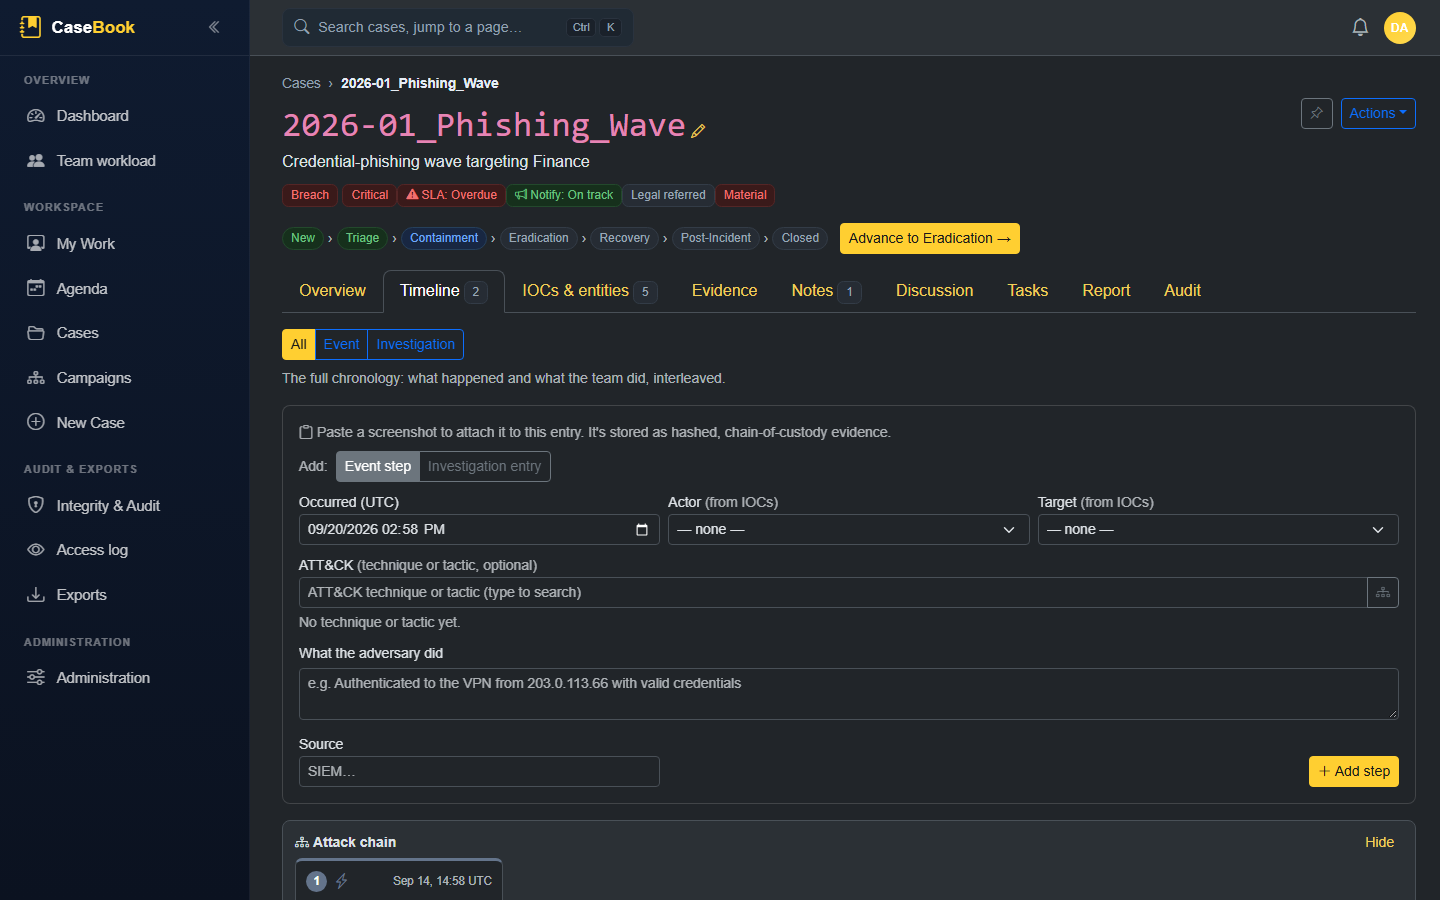
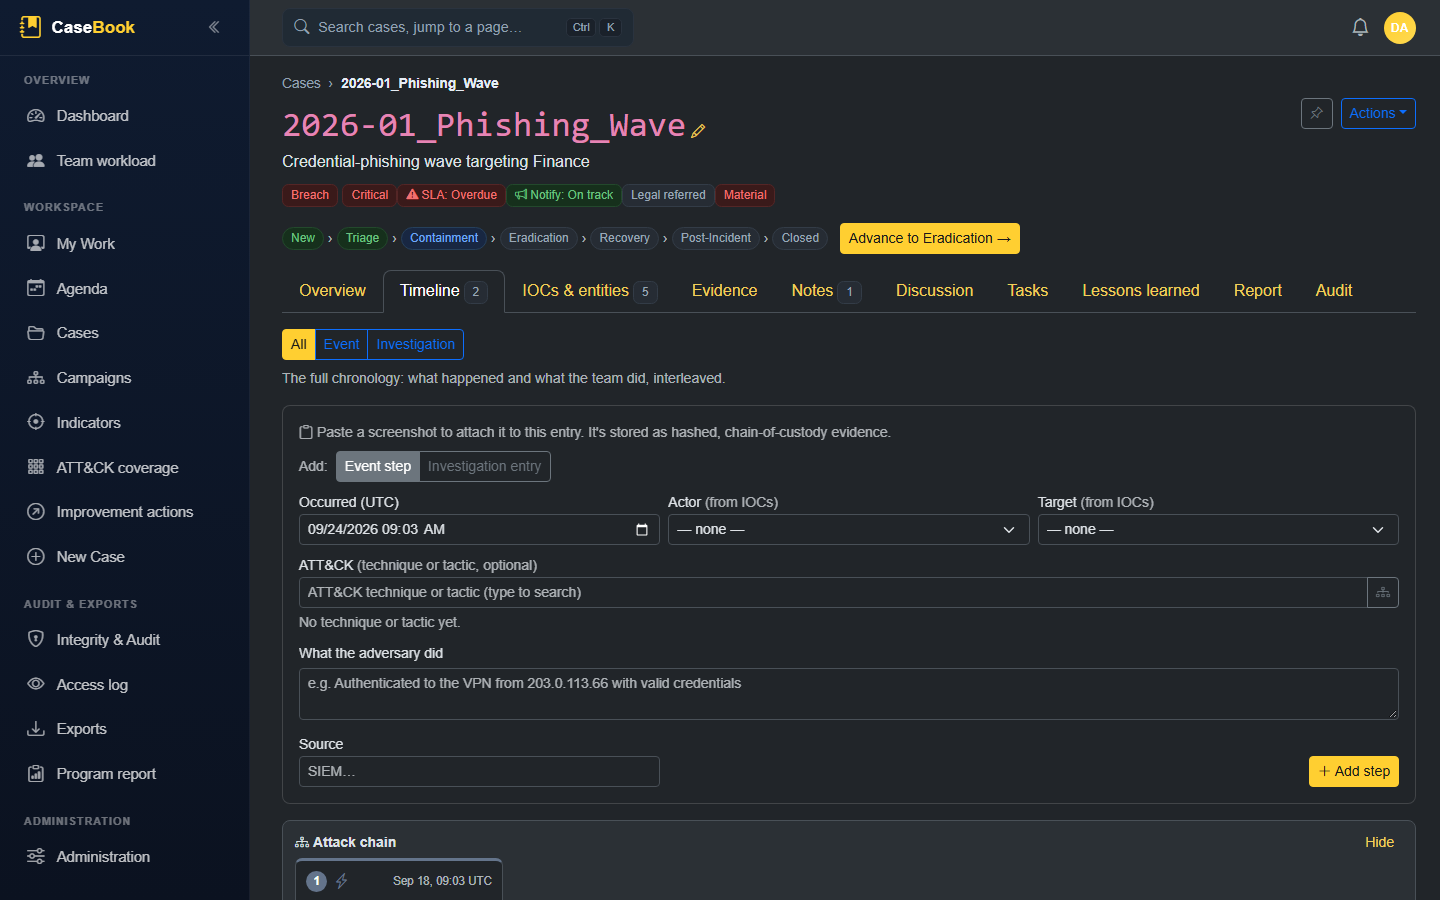
Refresh README screenshots and add five new ones (H-10)
Reshoots every README screenshot against fresh demo data and adds
Lessons learned, Improvement actions, Indicators, ATT&CK coverage and
Program report, with README sections for each. The demo seed gains
per-scenario ATT&CK tags and recurring indicators so those pages show
real data. The capture docs explain using a throwaway database.

diff --git a/src/IncidentManager.Infrastructure/Persistence/DevDataSeeder.cs b/src/IncidentManager.Infrastructure/Persistence/DevDataSeeder.cs
@@ -499,6 +499,9 @@ public static class DevDataSeeder
[1 lines of base64/hex data omitted]
             "Lure attachment (SHA-256)", EntityDisposition.Suspicious, null, "VirusTotal", actor, now.AddDays(-6));
 
+        c1.AddTechnique("T1566", "Phishing", MitreTactic.InitialAccess, actor, now.AddDays(-6));
+        c1.AddTechnique("T1078", "Valid Accounts", MitreTactic.InitialAccess, actor, now.AddDays(-5));
+        c1.AddTechnique("T1114", "Email Collection", MitreTactic.Collection, actor, now.AddDays(-5));
         c1.LinkEntities(acct.Id, url.Id, EntityRelationshipType.Accessed, "User submitted credentials to the lure.", actor, now.AddDays(-6));
         c1.LinkEntities(acct.Id, host.Id, EntityRelationshipType.LoggedInTo, null, actor, now.AddDays(-5));
         c1.LinkEntities(url.Id, ip.Id, EntityRelationshipType.ResolvedTo, null, actor, now.AddDays(-5));
@@ -580,8 +583,47 @@ public static class DevDataSeeder
             c.DetectionCaseId = $"SIEM-{40000 + rnd.Next(1000, 9999)}";
             c.Summary = summary;
             c.DataTypesInvolved = s.Data;
+            // PROD-42 showcase: the ATT&CK techniques each scenario typically involves, so the program-wide
+            // heatmap and the quarterly program report have realistic data on a fresh demo database.
+            foreach (var (tid, tname, tactic) in Techniques(s.Name))
+                c.AddTechnique(tid, tname, tactic, actor, created);
+            // PROD-10 showcase: recurring indicators per scenario, so the cross-case pivot and graph show the
+            // same infrastructure turning up across cases (documentation ranges / .test names only).
+            foreach (var (type, value, disposition) in Indicators(s.Name))
+                c.AddEntity(type, value, null, disposition, null, "SIEM", actor, created);
             return c;
         }
+
+        static (EntityType Type, string Value, EntityDisposition Disposition)[] Indicators(string scenario) => scenario switch
+        {
+            "Phishing Wave" => [(EntityType.Domain, "o365-secure-login.contoso-insurance.example.attacker.test", EntityDisposition.Malicious),
+                                (EntityType.IpAddress, "203.0.113.66", EntityDisposition.Malicious)],
+            "BEC Wire Fraud" => [(EntityType.EmailAddress, "ap-invoices@contoso-lnsurance.test", EntityDisposition.Malicious),
+                                 (EntityType.Domain, "contoso-lnsurance.test", EntityDisposition.Malicious)],
+            "Ransomware Outbreak" => [(EntityType.IpAddress, "198.51.100.23", EntityDisposition.Malicious),
+                                      (EntityType.FileHash, "5d41402abc4b2a76b9719d911017c592", EntityDisposition.Malicious)],
+            "Malware Beacon" => [(EntityType.IpAddress, "198.51.100.23", EntityDisposition.Malicious),
+                                 (EntityType.Domain, "update-cdn.attacker.test", EntityDisposition.Suspicious)],
+            "Anomalous VPN Logins" => [(EntityType.IpAddress, "203.0.113.66", EntityDisposition.Suspicious)],
+            _ => [],
+        };
+
+        static (string Id, string Name, MitreTactic Tactic)[] Techniques(string scenario) => scenario switch
+        {
+            "Phishing Wave" => [("T1566", "Phishing", MitreTactic.InitialAccess), ("T1078", "Valid Accounts", MitreTactic.InitialAccess),
+                                ("T1114", "Email Collection", MitreTactic.Collection)],
+            "Ransomware Outbreak" => [("T1486", "Data Encrypted for Impact", MitreTactic.Impact), ("T1059", "Command and Scripting Interpreter", MitreTactic.Execution),
+                                      ("T1021", "Remote Services", MitreTactic.LateralMovement), ("T1490", "Inhibit System Recovery", MitreTactic.Impact)],
+            "BEC Wire Fraud" => [("T1566", "Phishing", MitreTactic.InitialAccess), ("T1114", "Email Collection", MitreTactic.Collection),
+                                 ("T1534", "Internal Spearphishing", MitreTactic.LateralMovement)],
+            "Anomalous VPN Logins" => [("T1078", "Valid Accounts", MitreTactic.InitialAccess), ("T1133", "External Remote Services", MitreTactic.InitialAccess)],
+            "Malware Beacon" => [("T1071", "Application Layer Protocol", MitreTactic.CommandAndControl), ("T1204", "User Execution", MitreTactic.Execution)],
+            "Exposed Storage Bucket" => [("T1530", "Data from Cloud Storage", MitreTactic.Collection)],
+            "Insider Data Access" => [("T1213", "Data from Information Repositories", MitreTactic.Collection), ("T1078", "Valid Accounts", MitreTactic.PrivilegeEscalation)],
+            "Portal DDoS" => [("T1498", "Network Denial of Service", MitreTactic.Impact)],
+            "Vendor Credential Leak" => [("T1552", "Unsecured Credentials", MitreTactic.CredentialAccess)],
+            _ => [],
+        };
 
         // ── Closed history: 2–3 cases per month across the last ~11 months, each run fully through the
         // lifecycle with durations that mostly beat, sometimes miss, the per-severity SLA target. ──

diff --git a/README.md b/README.md
@@ -70,9 +70,28 @@ a type, a **disposition** (malicious / suspicious / benign / unknown), and a sou
 force-directed **relationship graph** renders each entity as a type-shaped node and **overlays the
 attack chain** as tactic-coloured edges (e.g. the blue *Initial Access* step), so an analyst can see how
 the phishing sender, patient-zero host, compromised Domain Admin account, and exfiltration destination
-connect at a glance. Network/URL indicators can be shown **defanged** for safe copy-out.
+connect at a glance. Network/URL indicators can be shown **defanged** for safe copy-out. An **Across
+cases** view redraws the graph around the case itself: the indicators it shares with other cases you can
+see, those cases, and its case links (campaign links in gold).
 
 ![Relationship graph](docs/screenshots/relationship-graph.png)
+
+### Indicators — the cross-case pivot
+Every indicator recorded on your cases, deduplicated by type and value, **most-shared first**: how many
+cases each appears on (and how many are still open), the worst verdict any case gave it, and first / last
+seen, with an expandable list of the cases behind it. A case's "also in" badge links straight here. Partner
+**STIX 2.1 bundles** and **IOC CSV** files import into a case through the same reviewed import as everything
+else, and the preview flags open cases already carrying the same indicators.
+
+![Indicators](docs/screenshots/indicators.png)
+
+### ATT&amp;CK coverage
+What the SOC has actually faced: the technique tags and attack steps across your cases rolled into the
+MITRE ATT&amp;CK matrix, each technique shaded by how many cases saw it, unobserved tactics shown as gaps,
+and a click-through to the cases behind any cell. Windowed by detection date; exercises excluded unless
+asked for.
+
+![ATT&CK coverage](docs/screenshots/attack-coverage.png)
 
 ### Campaign rollup
 When several cases are worked as one attack wave, linking them **"Same campaign as"** (E-14) makes them
@@ -101,6 +120,22 @@ the case closes and roll up into a cross-case **Improvement actions** register w
 **Lessons captured** check can be required on the Close gate for Incidents and Breaches. The review prints in
 its own stored, hashed **lessons-learned report**, never in the case report, with an optional admin-set
 confidentiality legend on every page. Wording is deliberately neutral, since these records are discoverable.
+**Draft from the case record** fills *What happened* with key times, the event sequence and every recorded
+decision, for the analyst to edit (template-based; CaseBook never calls an AI).
+
+![Lessons learned](docs/screenshots/lessons-learned.png)
+
+![Improvement actions](docs/screenshots/improvement-actions.png)
+
+### Program report
+A **quarterly** roll-up for leadership, board and exam packs: case volumes by classification and severity,
+time to detect / contain / resolve, SLA attainment, regulatory reporting, post-incident follow-through and
+the top ATT&amp;CK techniques, each against the previous quarter. Exports as CSV and prints cleanly to PDF;
+an optional **quarterly email** sends the headline figures to managers. A **legal &amp; regulatory
+obligations register** (referrals, holds, materiality, notification deadlines) exports alongside it for
+Legal and Privacy.
+
+![Program report](docs/screenshots/program-report.png)
 
 ### Integrity &amp; audit
 The tamper-evident spine: an append-only, SHA-256 hash-chained audit trail with one-click chain

diff --git a/tools/screenshots/README.md b/tools/screenshots/README.md
@@ -16,6 +16,13 @@ drives headless Chrome over the DevTools Protocol using only Node's built-in `fe
    dotnet run --project src/IncidentManager.Web
    ```
 
+   To keep your working database, point the app at a throwaway one instead (it seeds on first start):
+
+   ```bash
+   ConnectionStrings__Default="Data Source=/tmp/casebook-shots.db" EvidenceStore__RootPath=/tmp/casebook-shots-evidence \
+     dotnet run --project src/IncidentManager.Web --launch-profile http
+   ```
+
 2. In another shell, from the repo root:
 
    ```bash
